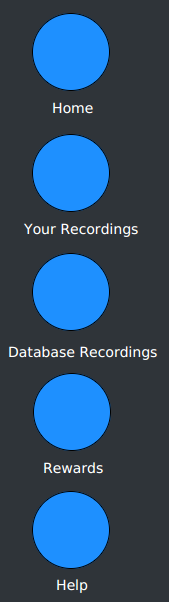
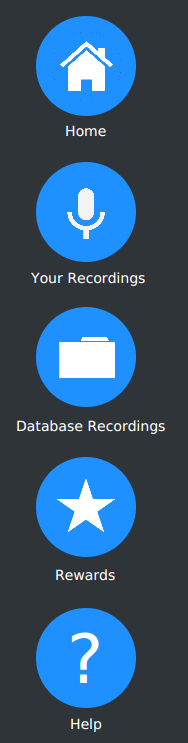
added more to the help menu

diff --git a/src/namesayer/HelpMenuController.java b/src/namesayer/HelpMenuController.java
@@ -11,7 +11,8 @@ import javafx.scene.image.ImageView;
 public class HelpMenuController extends SideButtons implements Initializable {
 
 	@FXML
-	private ImageView tabMenuPicture,dataBasePic,practiceMenuPic,rateMenuPic,recordMenuPic,confirmMenuPic,rewardMenuPic;
+	private ImageView tabMenuPicture,dataBasePic,practiceMenuPic,rateMenuPic,
+					  recordMenuPic,confirmMenuPic,rewardMenuPic,userRecordingPic,databaseRecordingPic;
 	
 	
 	
@@ -25,6 +26,8 @@ public class HelpMenuController extends SideButtons implements Initializable {
 		Image recordMenu = new Image("/HelpPictures/RecordMenu.png");
 		Image confirmMenu = new Image("/HelpPictures/ConfirmMenu.png");
 		Image rewardMenu = new Image("/HelpPictures/RewardMenu.png");
+		Image userRecordingMenu = new Image("/HelpPictures/userRecording.png");
+		Image databaseRecordingMenu = new Image("/HelpPictures/databaseRecordings.png");
 		
 		
 		tabMenuPicture.setImage(sideButtons);
@@ -34,6 +37,8 @@ public class HelpMenuController extends SideButtons implements Initializable {
 		recordMenuPic.setImage(recordMenu);
 		confirmMenuPic.setImage(confirmMenu);
 		rewardMenuPic.setImage(rewardMenu);
+		userRecordingPic.setImage(userRecordingMenu);
+		databaseRecordingPic.setImage(databaseRecordingMenu);
 	}
 	
 	
